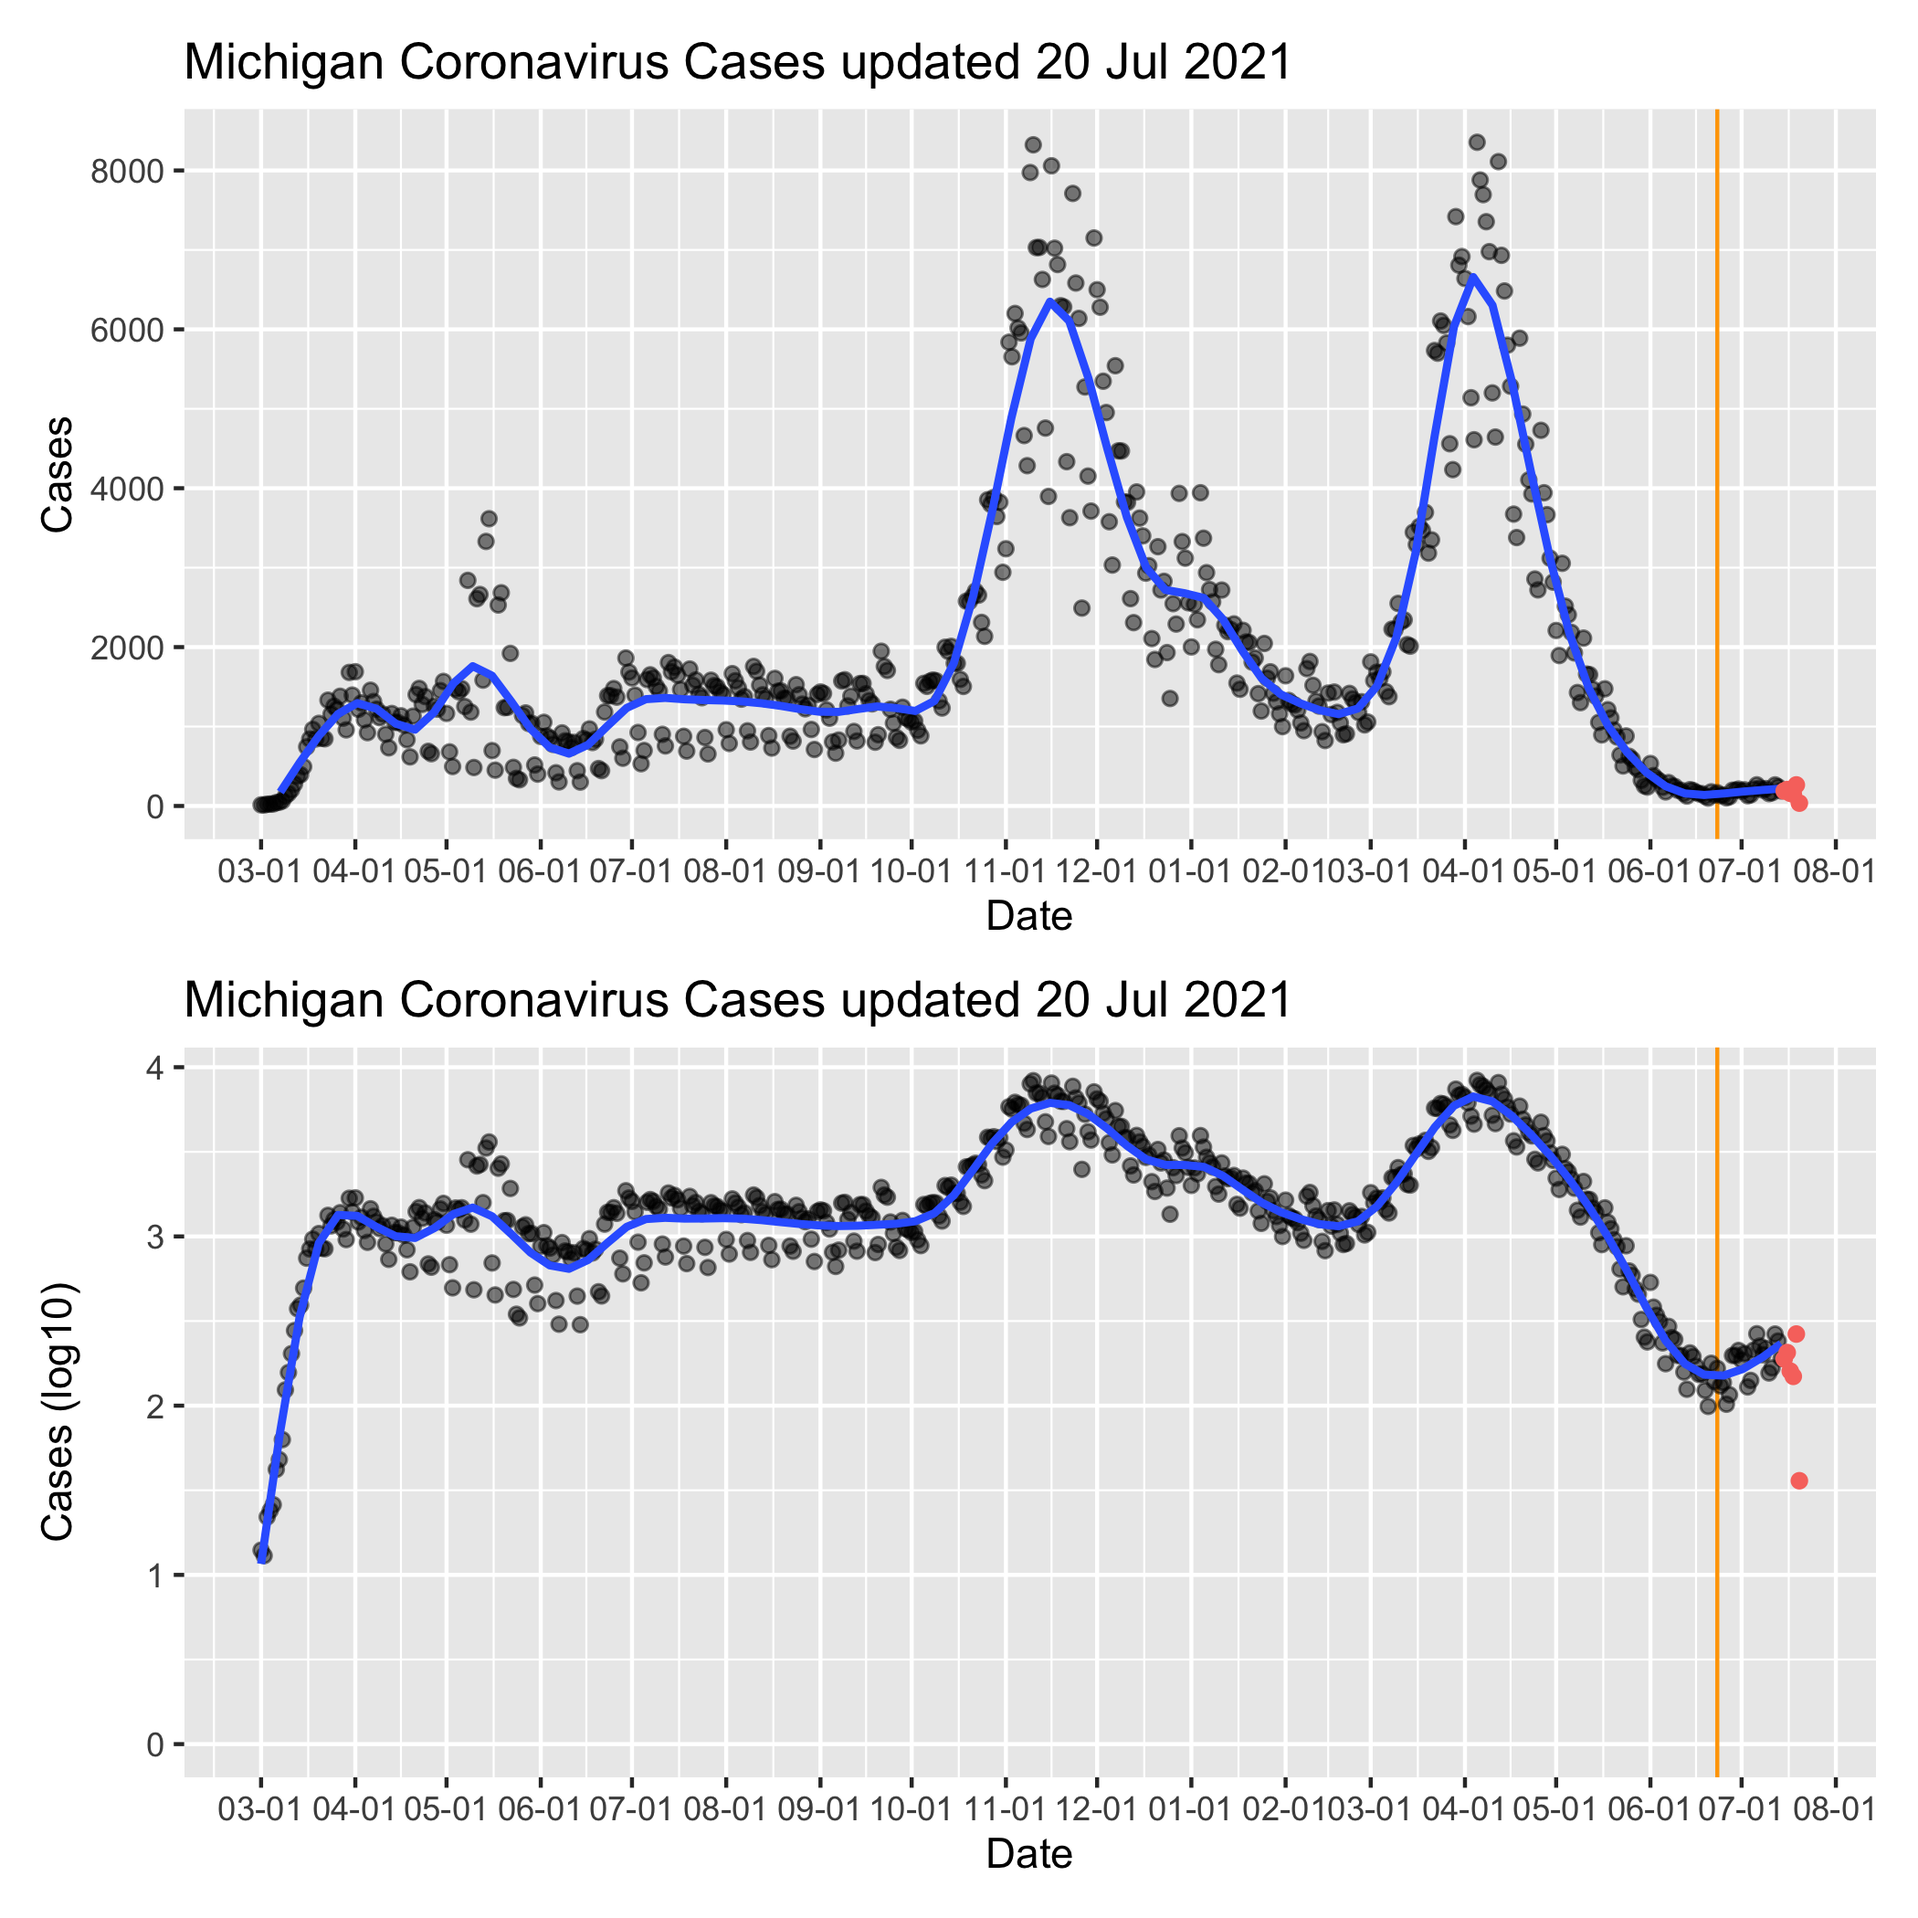
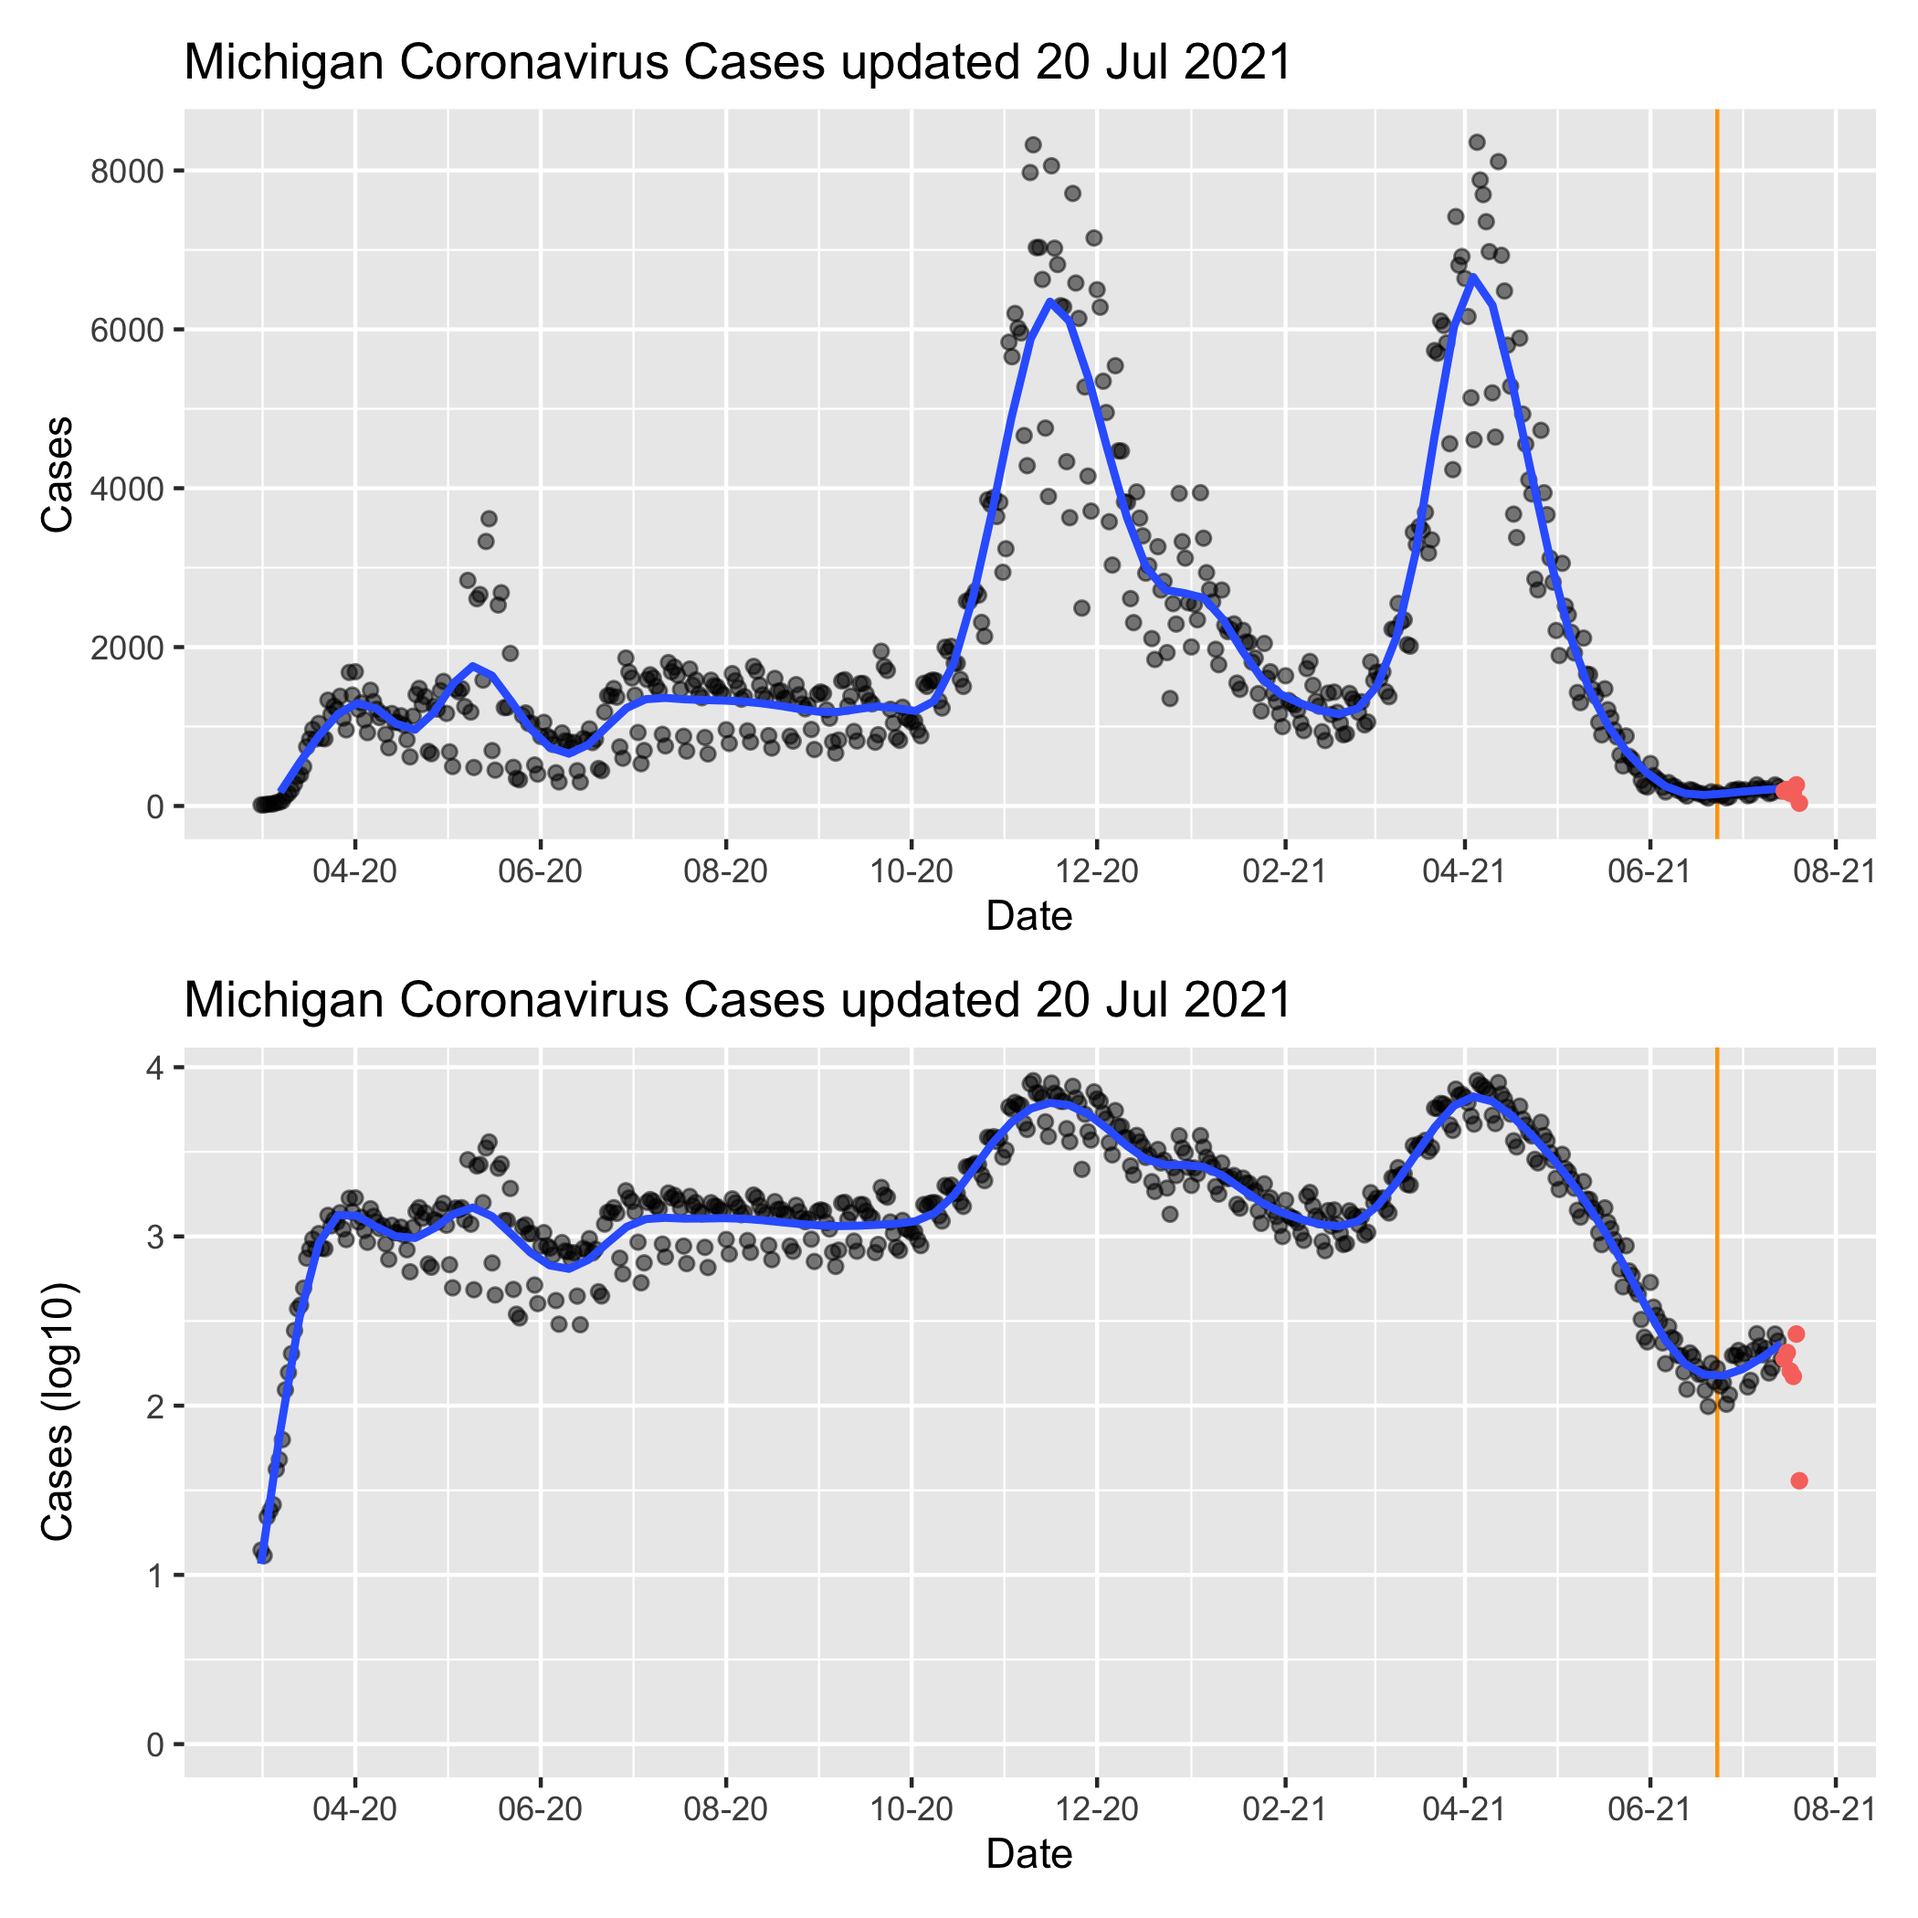
Jul-21 2021 01:13 update

diff --git a/MiCorona.md b/MiCorona.md
@@ -94,7 +94,7 @@ viz_function <- function(df, df2, x, y, vertline = TRUE, log = FALSE) {
       data = df2,
       mapping = aes(x = as.Date({{x}}), y = y, color = "red")
     ) +
-    scale_x_date(date_labels = "%m-%d", date_breaks = "1 month") + 
+    scale_x_date(date_labels = "%m-%y", date_breaks = "2 months") + 
     theme(legend.position = "none") +
     labs(
       title = paste("Michigan Coronavirus", deparse(substitute(y)), "updated", date_update),
